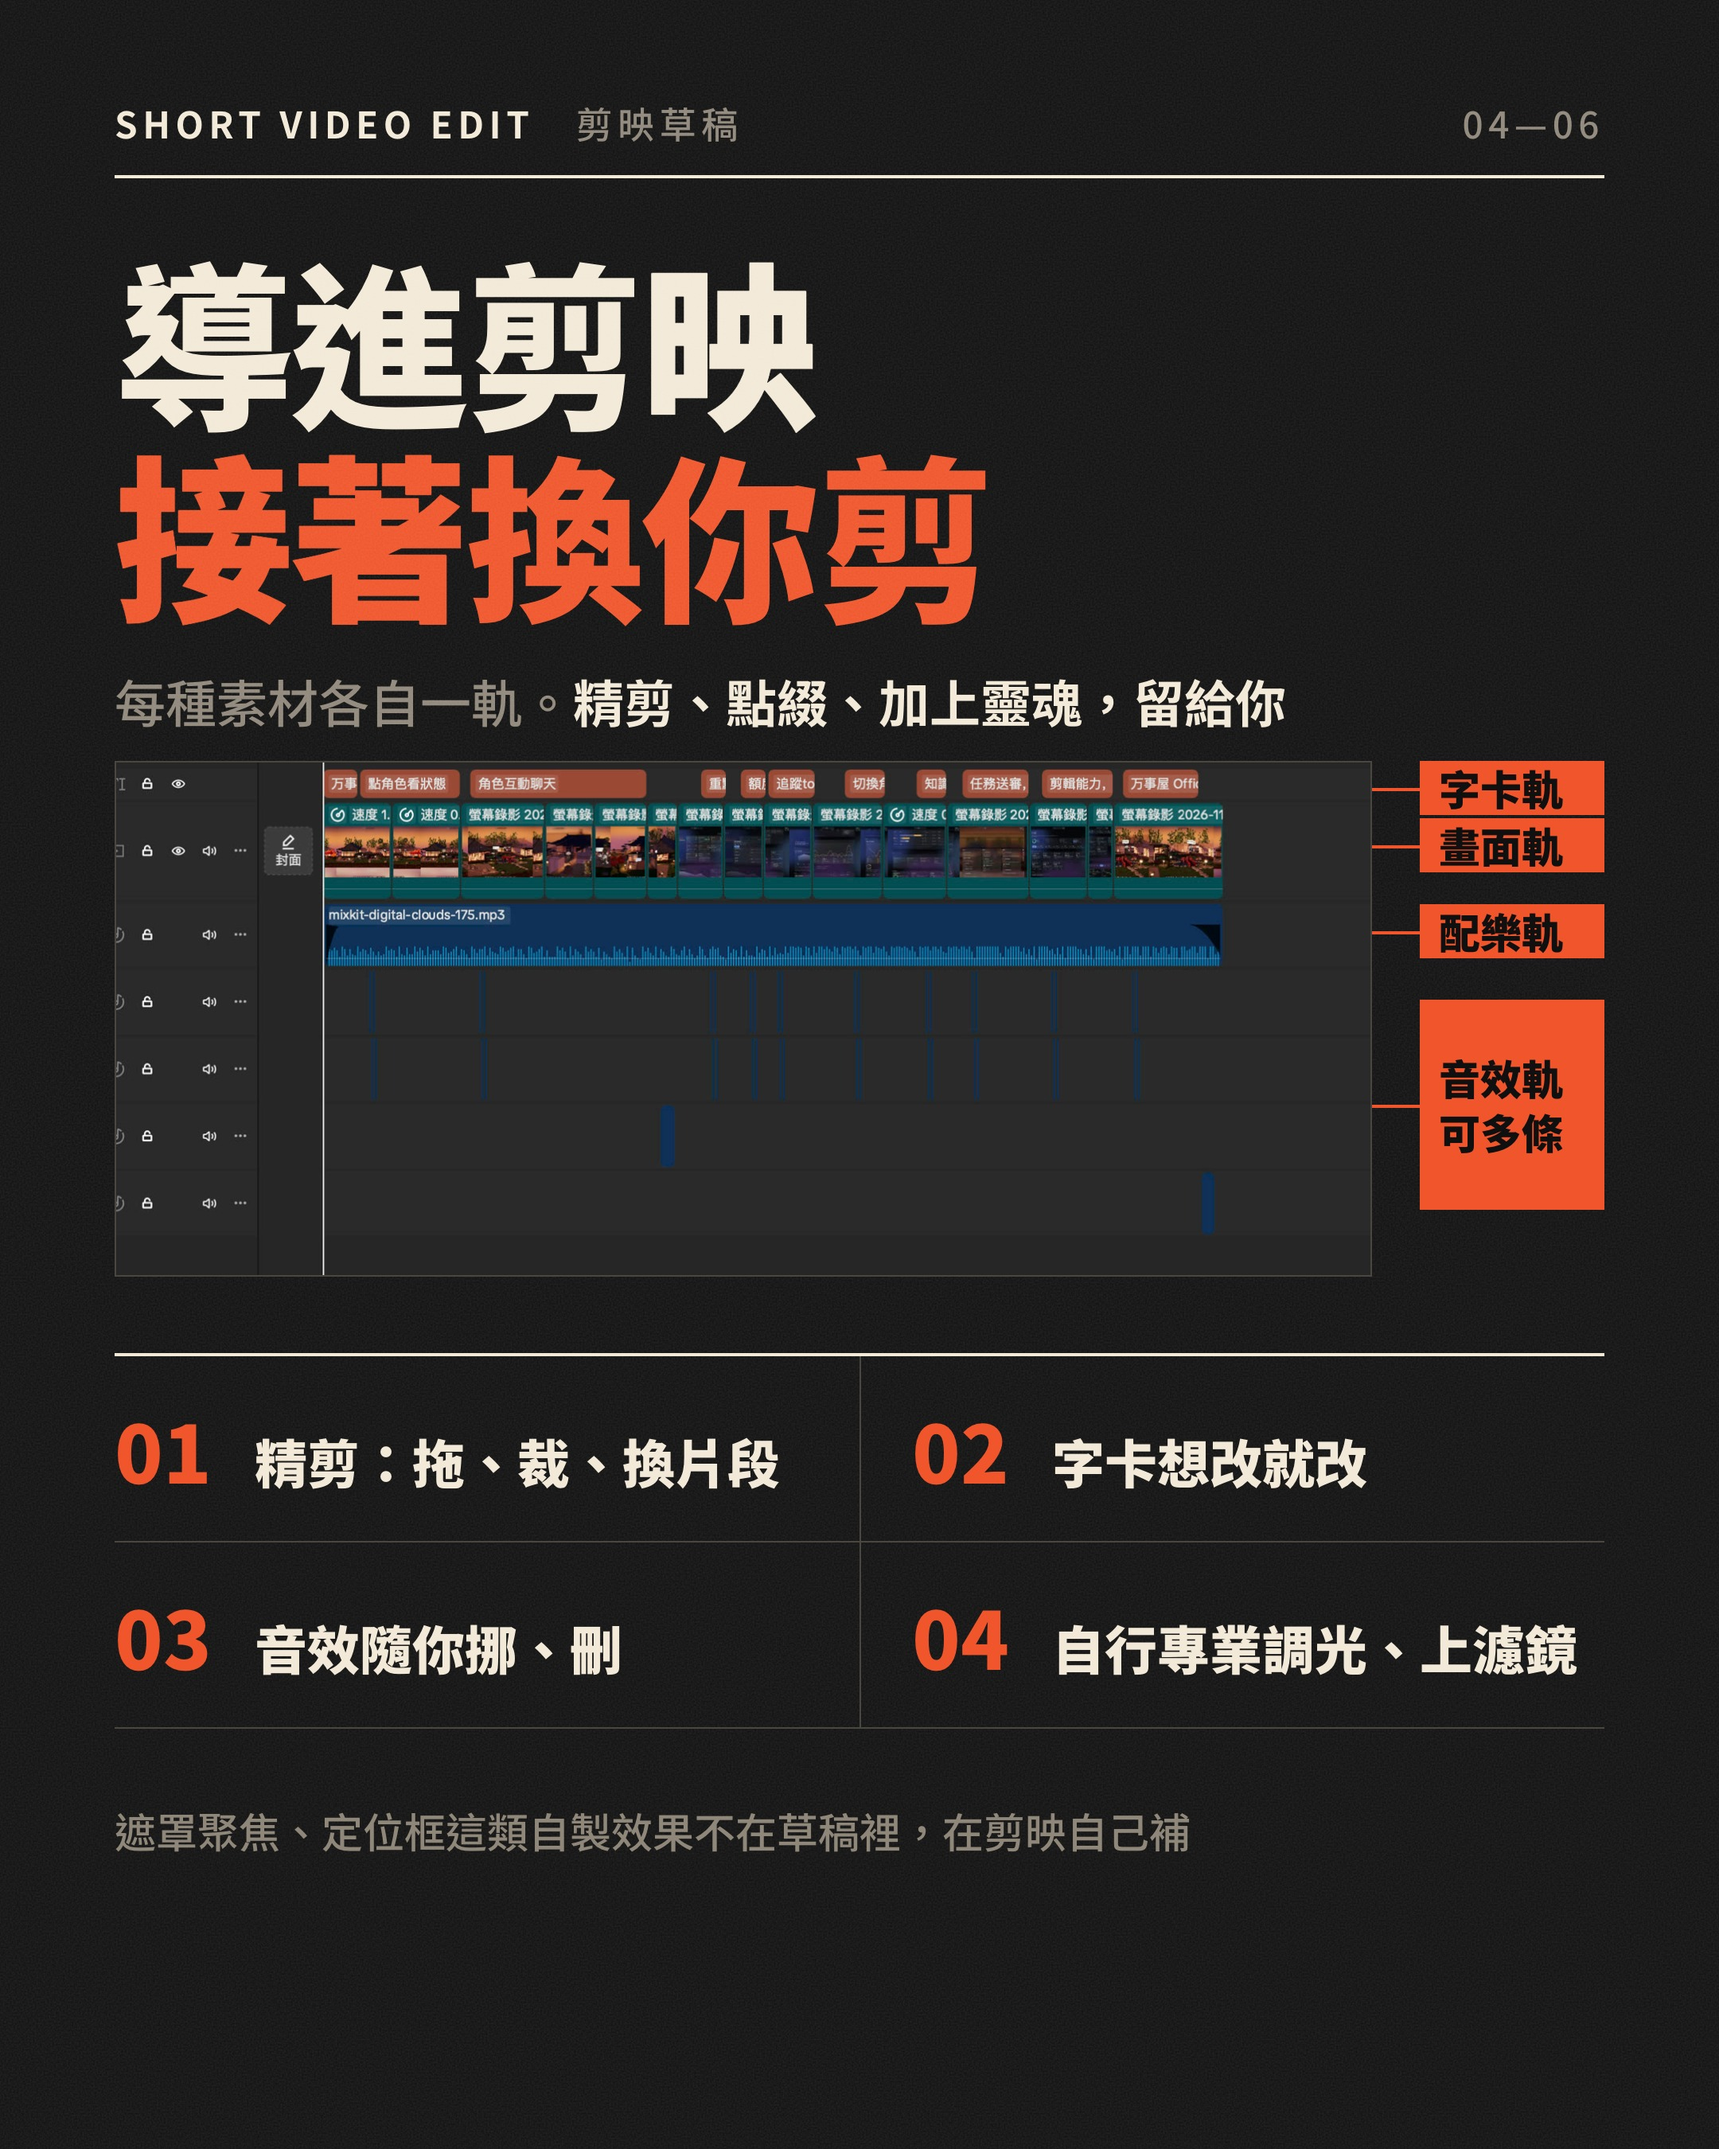
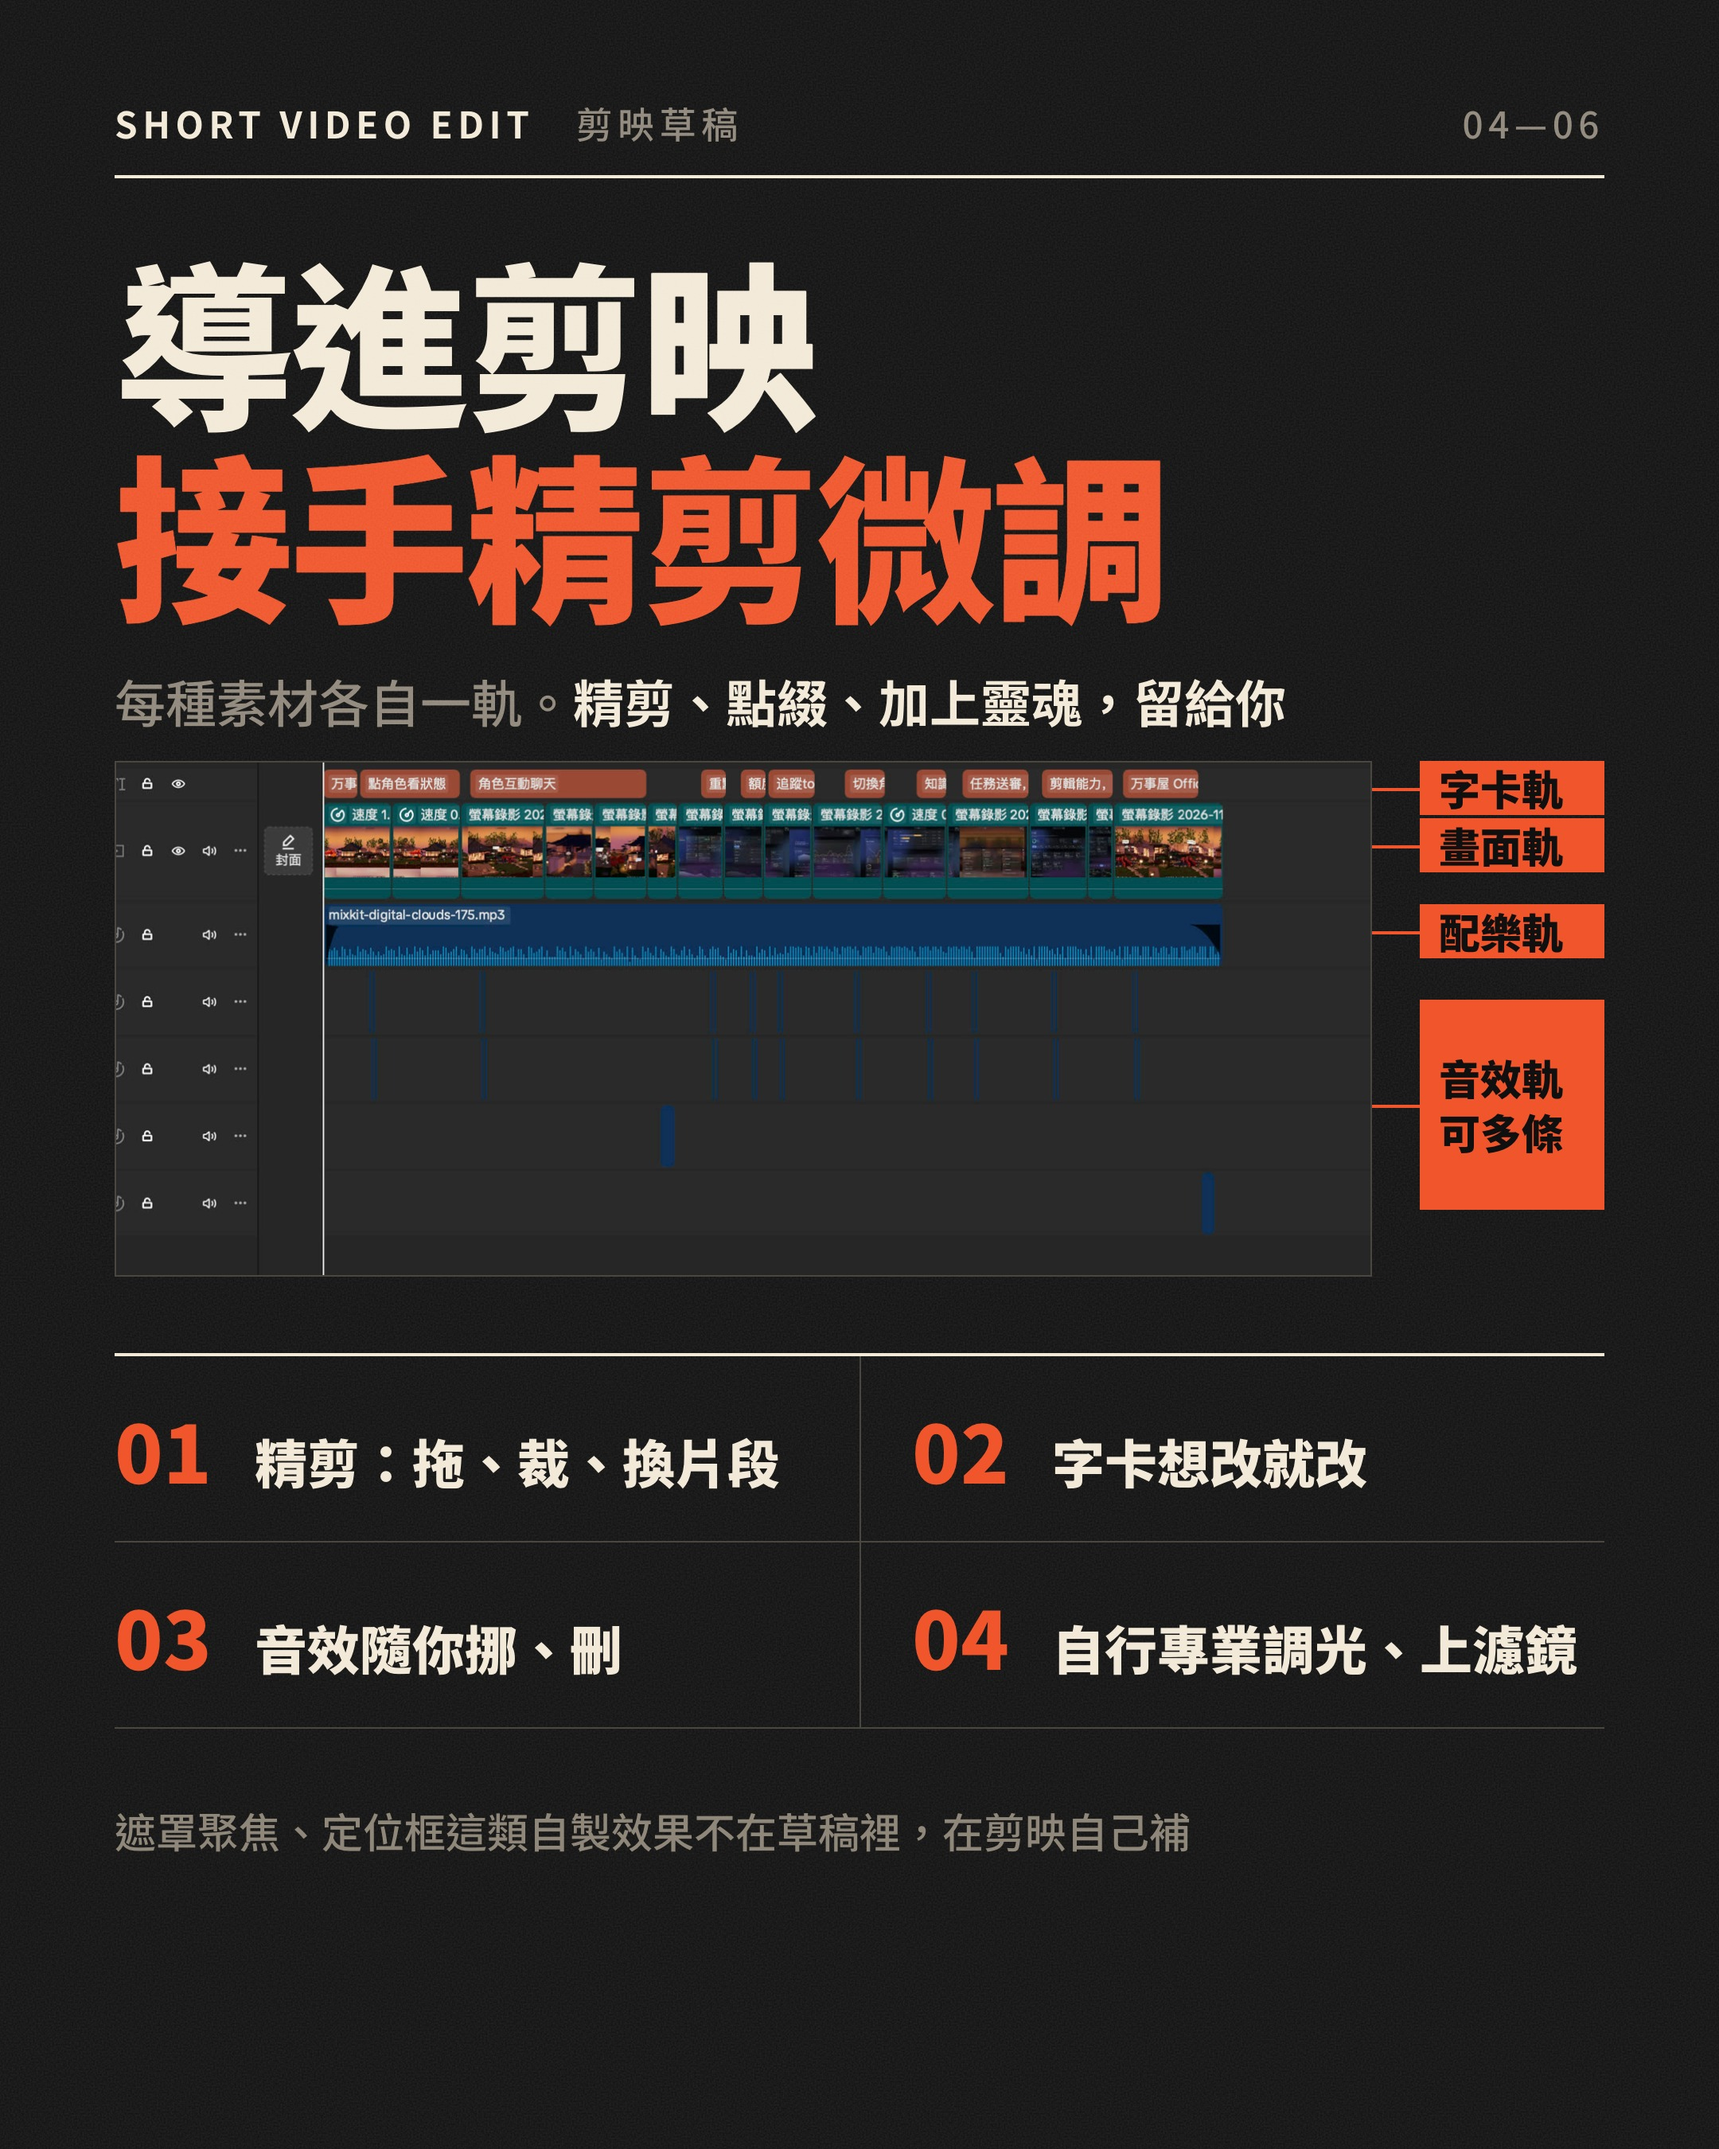
第 4 張圖標題改「接手精剪微調」

Changed region(s): [[0.1551, 0.1867, 0.6824, 0.3111]]

diff --git a/docs/src/card-tracks.html b/docs/src/card-tracks.html
@@ -12,7 +12,7 @@
 .note{position:absolute;left:72px;right:72px;top:1170px;font-size:26px;color:var(--dim);font-weight:500;line-height:1.5}
 </style></head><body><div class="page"><svg class="grain" width="1080" height="1350"><filter id="n"><feTurbulence type="fractalNoise" baseFrequency=".9" numOctaves="2" seed="7"/><feColorMatrix values="0 0 0 0 1  0 0 0 0 1  0 0 0 0 1  0 0 0 .9 0"/></filter><rect width="100%" height="100%" filter="url(#n)"/></svg>
 <div class="head"><span><b>SHORT VIDEO EDIT</b>　剪映草稿</span><span>04—06</span></div>
-<h1>導進剪映<br><em>接著換你剪</em></h1>
+<h1>導進剪映<br><em>接手精剪微調</em></h1>
 <div class="lead">每種素材各自一軌。<b>精剪、點綴、加上靈魂，留給你</b></div>
 <div class="shot">
   <img src="../assets/capcut-timeline.jpg" alt="剪映時間軸：每種素材各自一軌">
